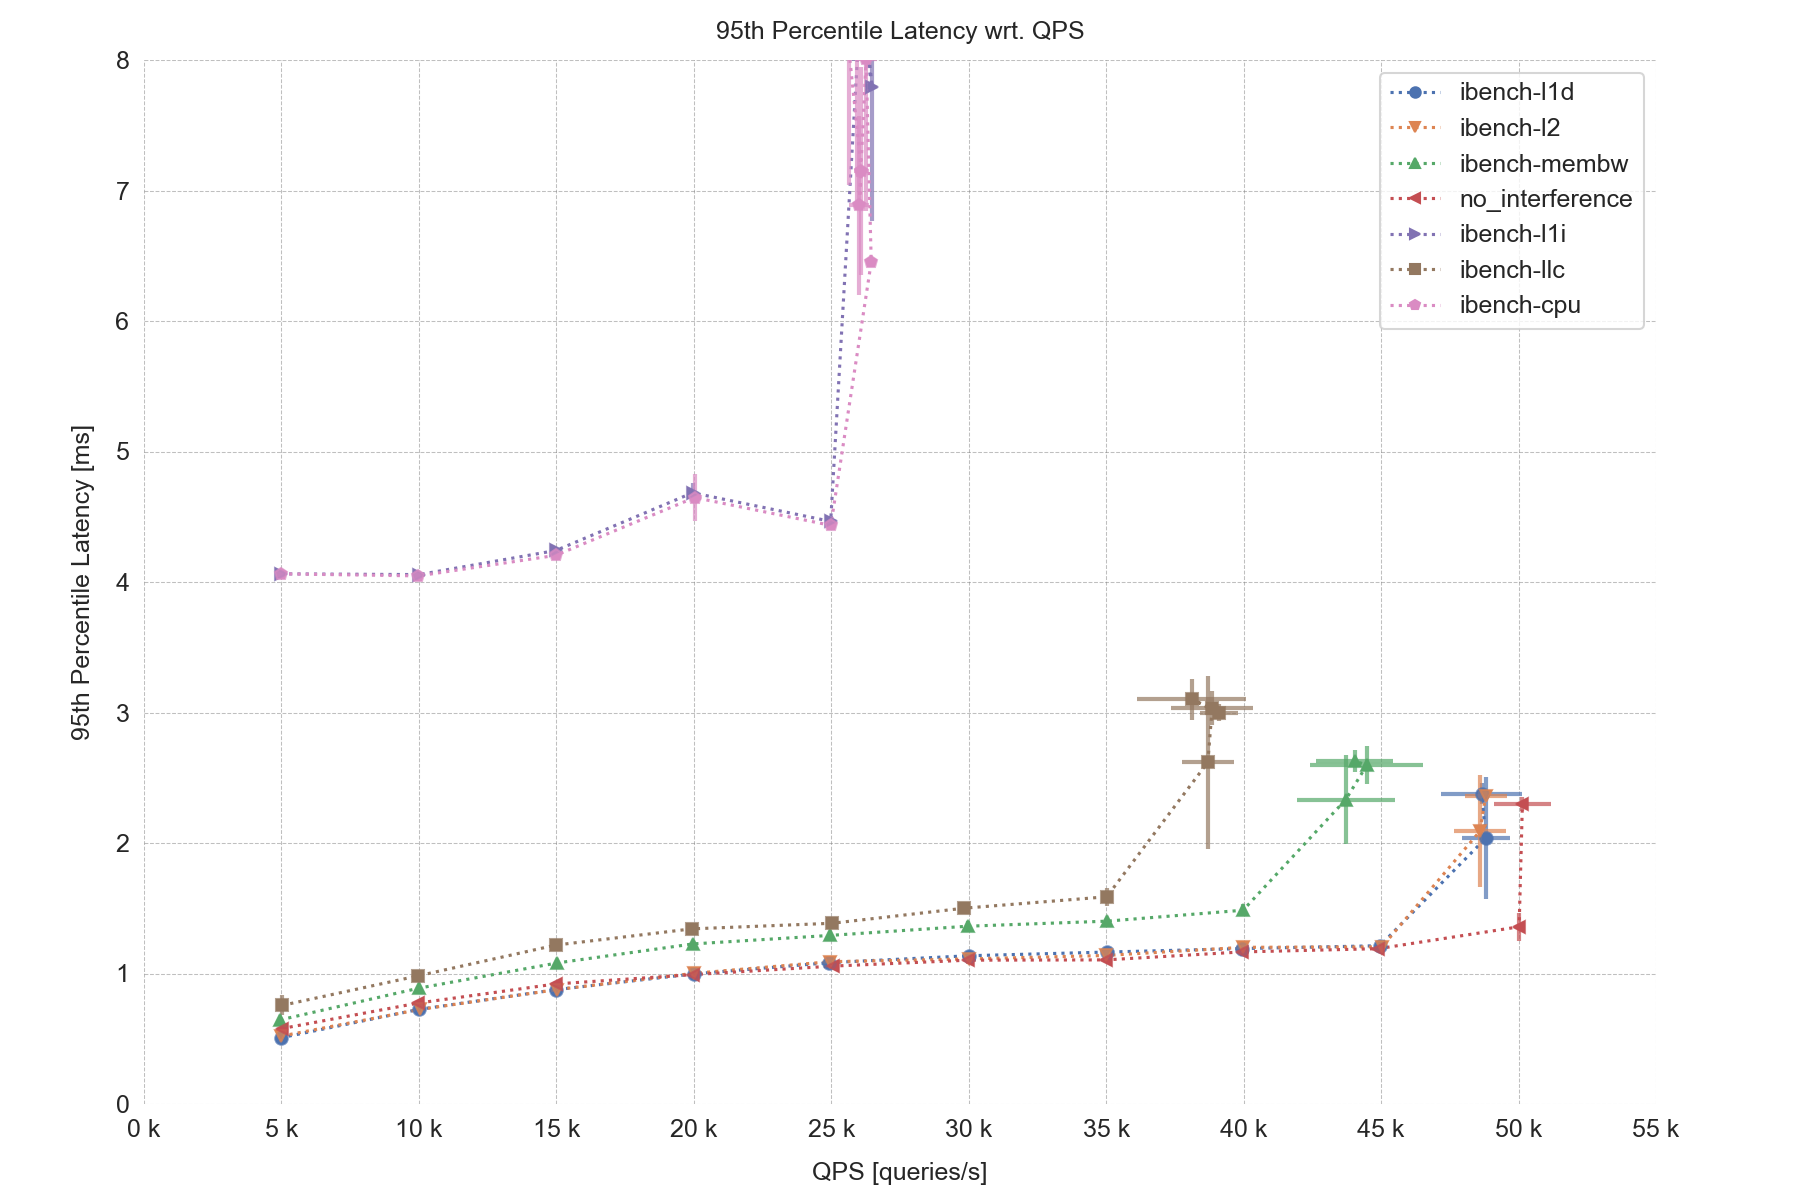
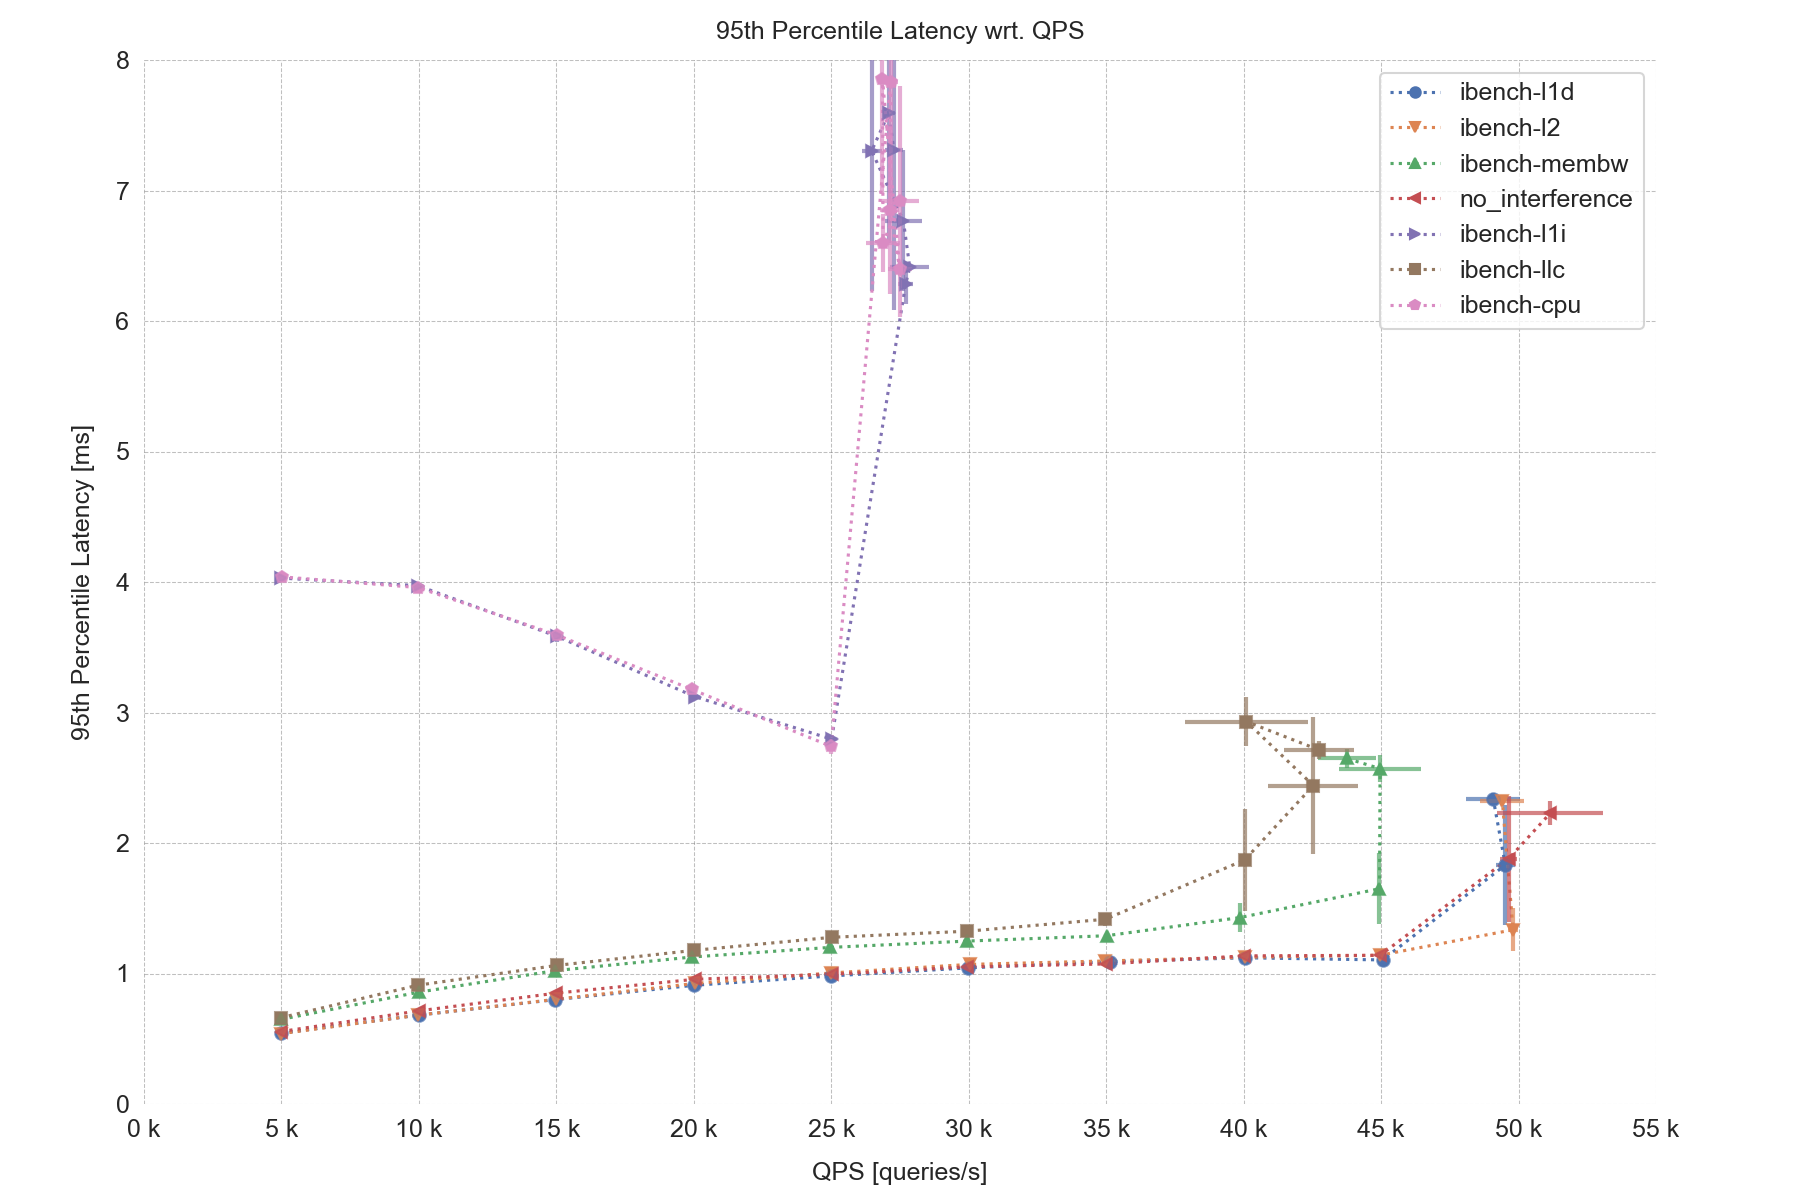
last results part 1

diff --git a/scripts/task1.py b/scripts/task1.py
@@ -81,19 +81,6 @@ def run_tests(type: str, num_iterations: int, warmup: bool = True) -> None:
     os.makedirs(directory_path, exist_ok=True)
 
     if warmup:
-        mcperf_measure_command = [
-            "gcloud",
-            "compute",
-            "ssh",
-            "--zone",
-            "europe-west3-a",
-            "--ssh-key-file",
-            os.path.expanduser("~/.ssh/cloud-computing"),
-            "ubuntu@" + client_measure_name,
-            "--command",
-            f"./memcache-perf/mcperf -s {memcached_ip} --loadonly",
-        ]
-        res = subprocess.run(mcperf_measure_command)
 
         res = subprocess.run(
             [
@@ -113,22 +100,7 @@ def run_tests(type: str, num_iterations: int, warmup: bool = True) -> None:
         print(f"Warmup on type {type} finished")
 
     for i in range(num_iterations):
-        filename = os.path.join(directory_path, f"run2_{i+1}.txt")
-
-        # Load the data (Try doing it every single time to make sure we do not cache anything)
-        mcperf_measure_command = [
-            "gcloud",
-            "compute",
-            "ssh",
-            "--zone",
-            "europe-west3-a",
-            "--ssh-key-file",
-            os.path.expanduser("~/.ssh/cloud-computing"),
-            "ubuntu@" + client_measure_name,
-            "--command",
-            f"./memcache-perf/mcperf -s {memcached_ip} --loadonly",
-        ]
-        res = subprocess.run(mcperf_measure_command)
+        filename = os.path.join(directory_path, f"run3_{i+1}.txt")
 
         with open(filename, "w") as f:
             res = subprocess.run(

diff --git a/scripts/plot_task1.py b/scripts/plot_task1.py
@@ -20,7 +20,7 @@ def load_run_data_folder(folder_path: str) -> List[pd.DataFrame]:
     return [
         load_run_data(os.path.join(folder_path, file))
         for file in os.listdir(folder_path)
-        if file.endswith(".txt") and file.startswith("run2")
+        if file.endswith(".txt") and file.startswith("run3")
     ]
 
 
